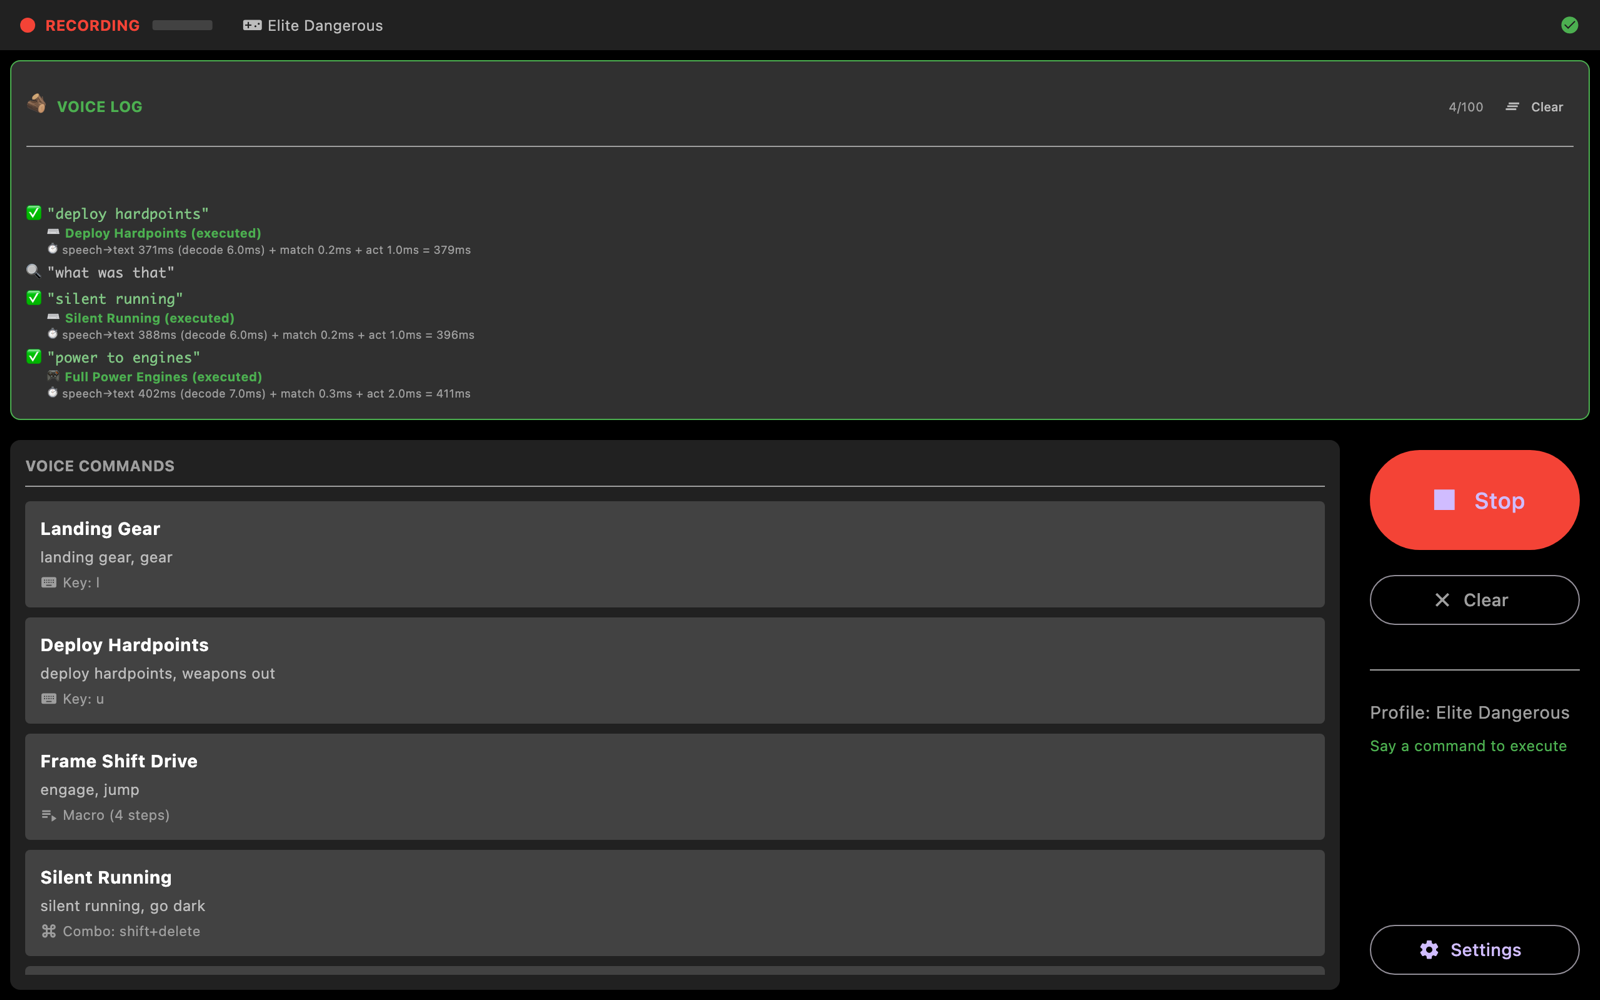
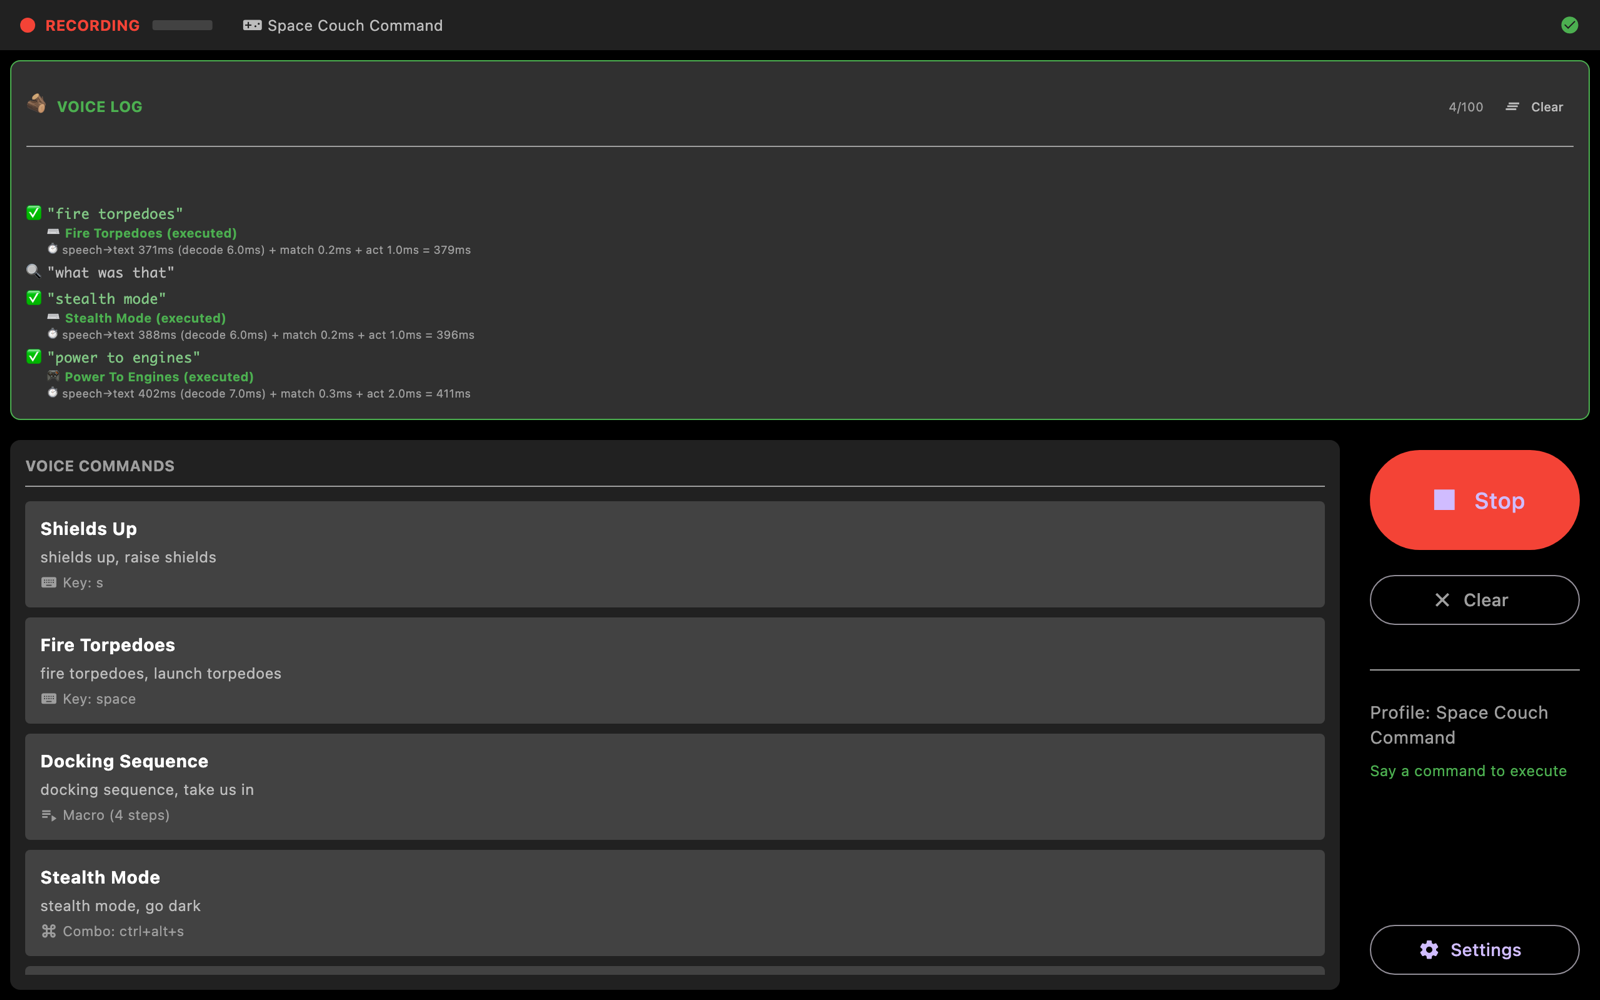
voicecmd: rebuild the screenshots without third-party game names
The first set used Elite Dangerous and Star Citizen as profile names, and
Frame Shift Drive as a command. Those are other publishers' trademarks, and
these images are App Store marketing and a public product page -- not a place
to have someone else's brand doing our selling.

Now Space Couch Command, which is ours, plus a Video Editing profile. The
second one is non-gaming deliberately: the App Store listing sits in
Productivity, and a page showing only games argues against its own category.
Command names are plain sci-fi description rather than any game's in-game
terminology.

diff --git a/voicecmd/index.html b/voicecmd/index.html
@@ -157,7 +157,7 @@
         <figcaption style="margin-top:.6rem;font-size:.9rem;opacity:.72;">The voice log shows what was heard, which command matched, and exactly where the time went.</figcaption>
       </figure>
       <figure>
-        <img src="/voicecmd/shot-settings.png" alt="VoiceCmd settings, showing two profiles and a list of voice commands with their trigger phrases and actions." width="1600" height="1000" style="max-width:100%;height:auto;border-radius:10px;" loading="lazy" />
+        <img src="/voicecmd/shot-settings.png" alt="VoiceCmd settings, showing two command profiles and a list of voice commands with their trigger phrases and the actions they perform." width="1600" height="1000" style="max-width:100%;height:auto;border-radius:10px;" loading="lazy" />
         <figcaption style="margin-top:.6rem;font-size:.9rem;opacity:.72;">Profiles group commands per application, and switch automatically as you do.</figcaption>
       </figure>
     </section>
